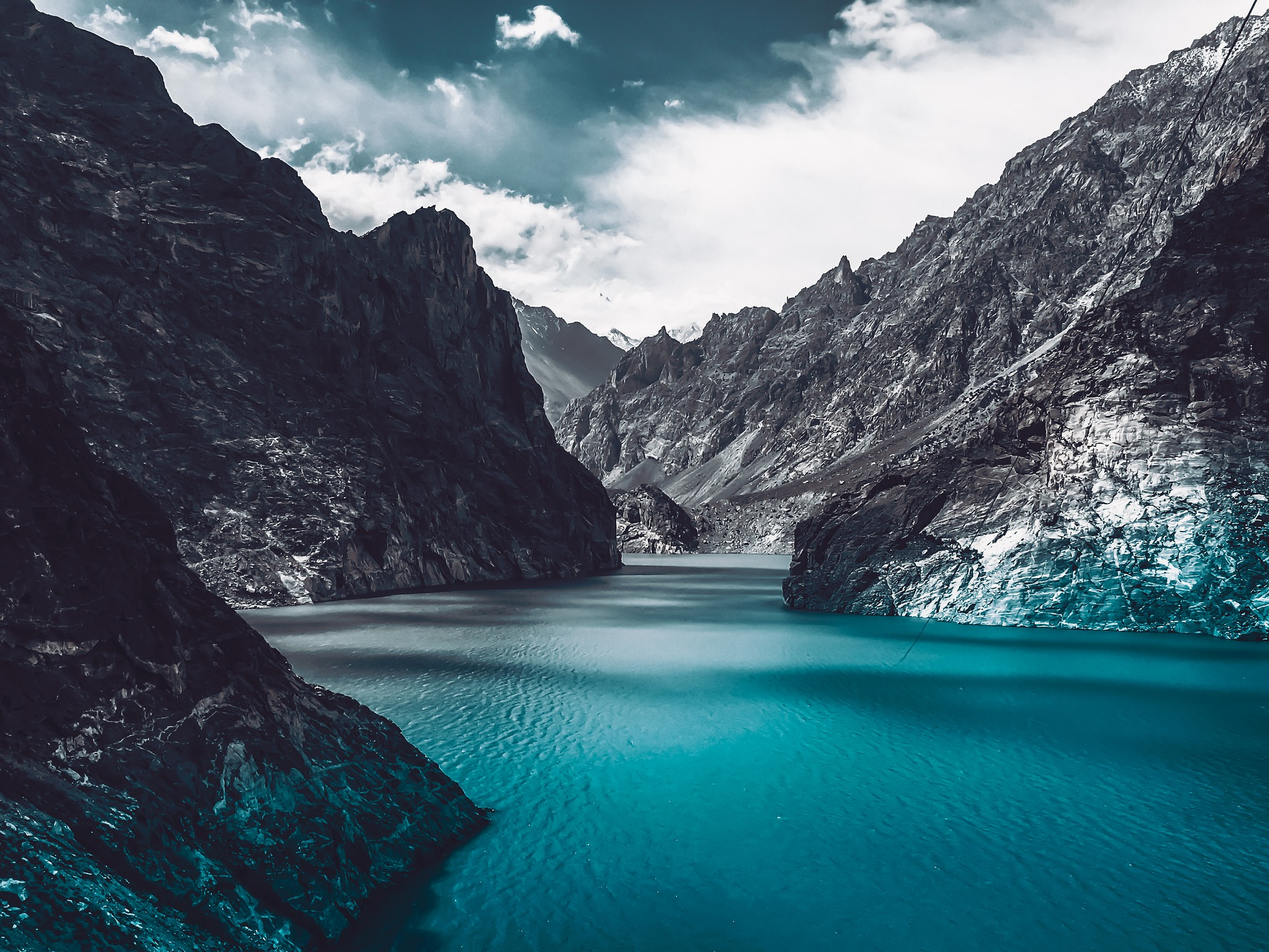
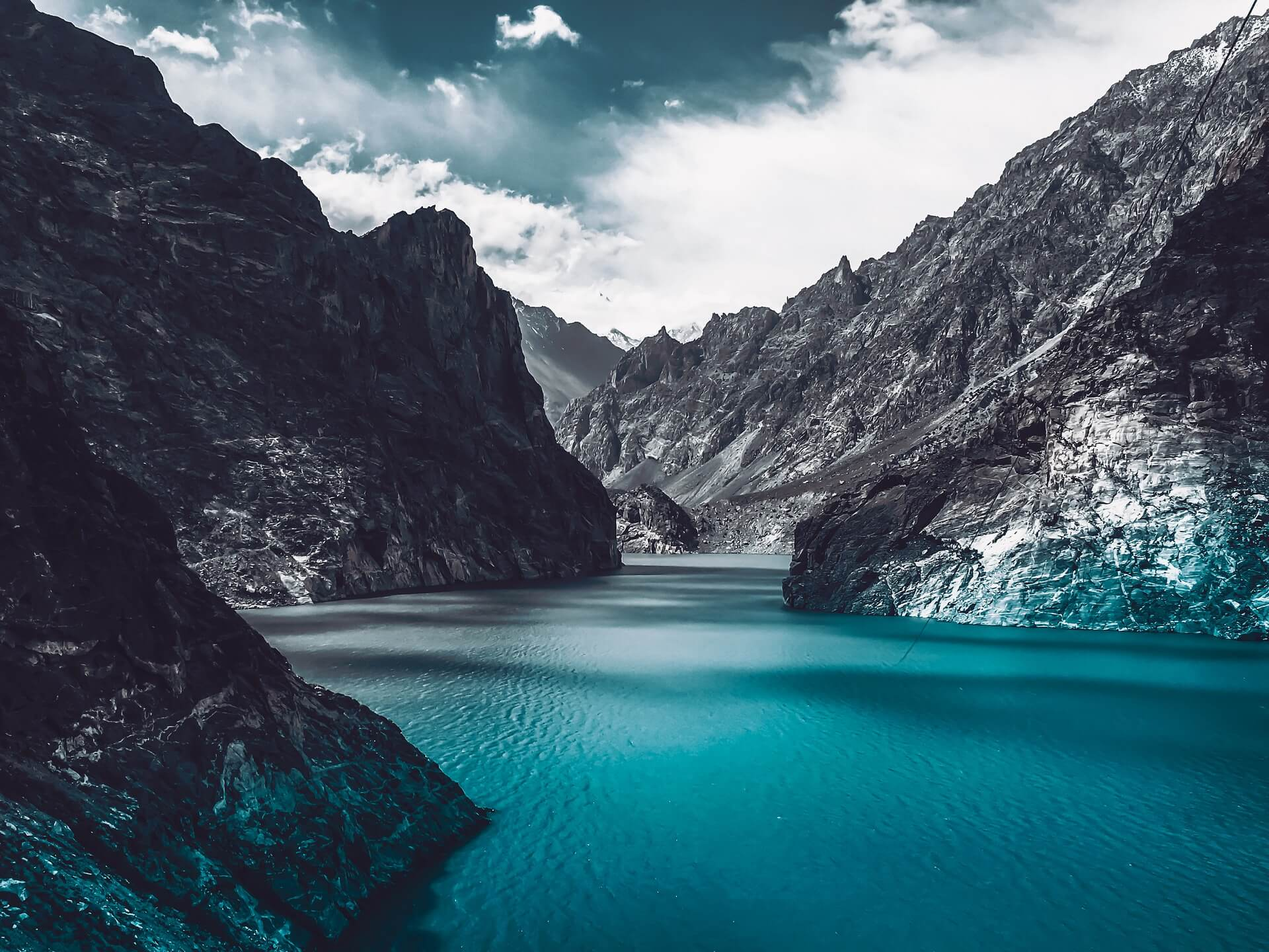
Compressing imgages

diff --git a/app/templates/caption-maker/base.html b/app/templates/caption-maker/base.html
@@ -106,7 +106,7 @@
 <!-- end main -->
 
 <div class="parallax-pro">
-    <div class="img-src" style="background-image: url('https://get-shit-done-pro.herokuapp.com/assets/img/bg6.jpg');"></div>
+    <div class="img-src" style="background-image: url('assets/img/grass.jpeg');"></div>
     <div class="container">
         <div class="row">
 <!--            <div class="col-md-12 text-center">-->
